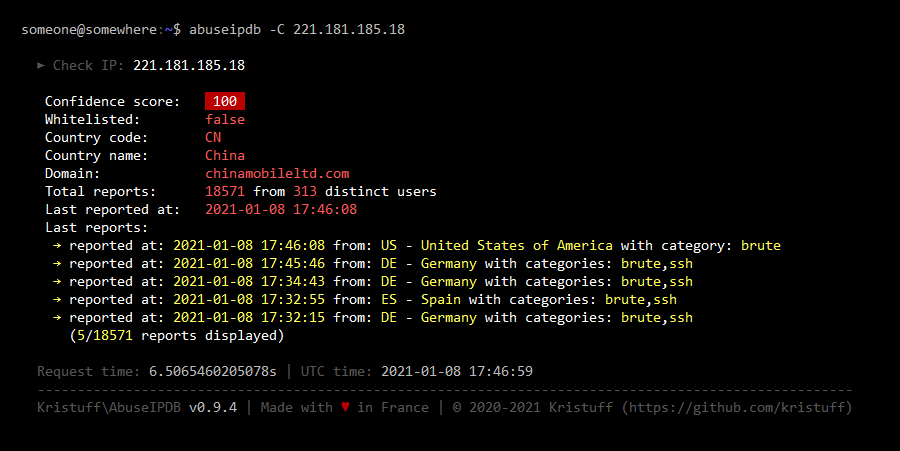
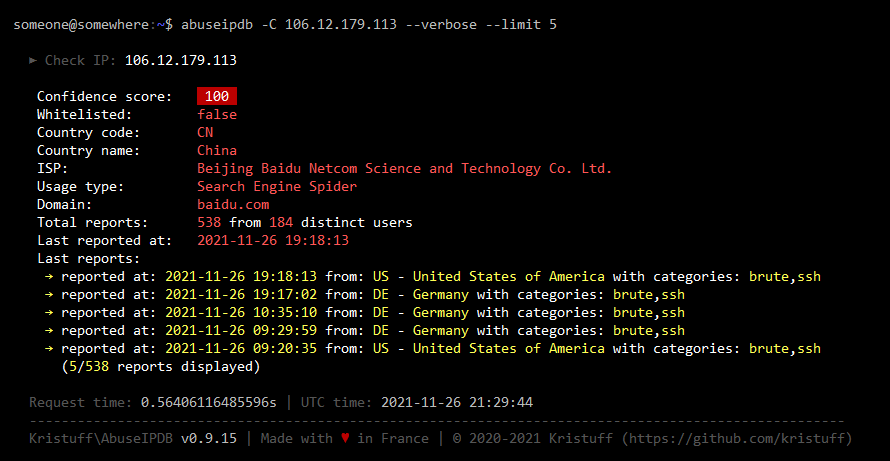
v0.9.16
**Changes**
- Update `composer.json` according to changes made in v0.9.15 (deploy this project as a dependency is no longer supported): update project type so *packagist.org* will propose `create-project` instead of `require`, and remove the *bin* part no longer required
- Fix php doc, typo, formatting
- Include `composer.json` and `composer.lock` in `.deb`

Changed region(s): [[0.0303, 0.1863, 0.9708, 0.9623], [0.0, 0.031, 0.6371, 0.1552]]

diff --git a/src/AbstractClient.php b/src/AbstractClient.php
@@ -13,7 +13,7 @@
  * For the full copyright and license information, please view the LICENSE
  * file that was distributed with this source code.
  *
- * @version    0.9.15
+ * @version    0.9.16
  * @copyright  2020-2021 Kristuff
  */
 namespace Kristuff\AbuseIPDB;
@@ -41,7 +41,7 @@ abstract class AbstractClient extends ShellErrorHandler
     /**
      * @var string
      */
-    const VERSION = 'v0.9.15'; 
+    const VERSION = 'v0.9.16'; 
 
     /**
      * @var QuietApiHandler
@@ -82,7 +82,7 @@ abstract class AbstractClient extends ShellErrorHandler
      * @static
      * @param array     $arguments   
      * 
-     * @return bool     true is the command has been found, otherwise false
+     * @return bool     true if the command has been found, otherwise false
      */
     protected static function parseCommand(array $arguments): bool
     {
@@ -111,14 +111,13 @@ abstract class AbstractClient extends ShellErrorHandler
      * @param array         $arguments      The list of arguments     
      * 
      * @return void   
-     * 
      */
     protected static function setOutputFormat(array $arguments): void
     {
         $given = self::getArgumentValue($arguments, 'o', 'output') ?? 'default';
         $output = empty($given) ? 'default' : $given; 
         self::validate(in_array($output, ['default', 'json', 'plaintext']), 'Invalid output argument given.');
-        self::$outputFormat = $output ;
+        self::$outputFormat = $output;
     }
 
     /**
@@ -128,8 +127,6 @@ abstract class AbstractClient extends ShellErrorHandler
      * @static
      * 
      * @return void
-     * @throws \InvalidArgumentException                        If the given file does not exist
-     * @throws \Kristuff\AbuseIPDB\InvalidPermissionException   If the given file is not readable 
      */
     protected static function createHandler(): void
     {
@@ -159,16 +156,16 @@ abstract class AbstractClient extends ShellErrorHandler
      * @access protected 
      * @static
      * @param array    $conf        The main configuration array
-     * @param array    $local       The local configuration array
+     * @param array    $localConf   The local configuration array
      * 
      * @return array
      */
     protected static function extractSelfIpsFromConf(array $conf, array $localConf): array
     {
-        if (array_key_exists('self_ips', $localConf)){
+        if (array_key_exists('self_ips', $localConf) && !empty($localConf['self_ips'])){
             return array_map('trim', explode(',', $localConf['self_ips']));
         }
-        if (array_key_exists('self_ips', $conf)){
+        if (array_key_exists('self_ips', $conf) && !empty($conf['self_ips'])){
             return array_map('trim', explode(',', $conf['self_ips']));
         }
         return [];
@@ -179,11 +176,13 @@ abstract class AbstractClient extends ShellErrorHandler
      * 
      * @access protected 
      * @static
-     * @param array    $conf        The configuration array
+     * @param array    $conf        The main configuration array
+     * @param array    $localConf   The local configuration array
      * 
-     * @return array
+     * @return string
+     * @throws \RuntimeException                                
      */
-    protected static function extractApiKeyFromConf(array $conf, $localConf): string
+    protected static function extractApiKeyFromConf(array $conf, array $localConf): string
     {
         $key = '';
 

diff --git a/src/AbuseIPDBClient.php b/src/AbuseIPDBClient.php
@@ -13,7 +13,7 @@
  * For the full copyright and license information, please view the LICENSE
  * file that was distributed with this source code.
  *
- * @version    0.9.15
+ * @version    0.9.16
  * @copyright  2020-2021 Kristuff
  */
 namespace Kristuff\AbuseIPDB;

diff --git a/src/BulkReportTrait.php b/src/BulkReportTrait.php
@@ -13,7 +13,7 @@
  * For the full copyright and license information, please view the LICENSE
  * file that was distributed with this source code.
  *
- * @version    0.9.15
+ * @version    0.9.16
  * @copyright  2020-2021 Kristuff
  */
 namespace Kristuff\AbuseIPDB;

diff --git a/src/CheckBlockTrait.php b/src/CheckBlockTrait.php
@@ -13,7 +13,7 @@
  * For the full copyright and license information, please view the LICENSE
  * file that was distributed with this source code.
  *
- * @version    0.9.15
+ * @version    0.9.16
  * @copyright  2020-2021 Kristuff
  */
 namespace Kristuff\AbuseIPDB;

diff --git a/src/CheckTrait.php b/src/CheckTrait.php
@@ -13,7 +13,7 @@
  * For the full copyright and license information, please view the LICENSE
  * file that was distributed with this source code.
  *
- * @version    0.9.15
+ * @version    0.9.16
  * @copyright  2020-2021 Kristuff
  */
 namespace Kristuff\AbuseIPDB;

diff --git a/src/ShellErrorHandler.php b/src/ShellErrorHandler.php
@@ -13,7 +13,7 @@
  * For the full copyright and license information, please view the LICENSE
  * file that was distributed with this source code.
  *
- * @version    0.9.15
+ * @version    0.9.16
  * @copyright  2020-2021 Kristuff
  */
 namespace Kristuff\AbuseIPDB;

diff --git a/src/ShellUtils.php b/src/ShellUtils.php
@@ -13,7 +13,7 @@
  * For the full copyright and license information, please view the LICENSE
  * file that was distributed with this source code.
  *
- * @version    0.9.15
+ * @version    0.9.16
  * @copyright  2020-2021 Kristuff
  */
 namespace Kristuff\AbuseIPDB;

diff --git a/src/UtilsTrait.php b/src/UtilsTrait.php
@@ -13,7 +13,7 @@
  * For the full copyright and license information, please view the LICENSE
  * file that was distributed with this source code.
  *
- * @version    0.9.15
+ * @version    0.9.16
  * @copyright  2020-2021 Kristuff
  */
 namespace Kristuff\AbuseIPDB;

diff --git a/README.md b/README.md
@@ -6,7 +6,7 @@
 [![Latest Stable Version](https://poser.pugx.org/kristuff/abuseipdb-cli/v/stable)](https://packagist.org/packages/kristuff/abuseipdb-cli)
 [![License](https://poser.pugx.org/kristuff/abuseipdb-cli/license)](https://packagist.org/packages/kristuff/abuseipdb-cli)
 
-[![sample-report](doc/sample-report.gif)](https://kristuff.fr/projects/abuseipdbcli)
+[![sample-report](doc/sample-check.gif)](https://kristuff.fr/projects/abuseipdbcli)
 
 Features
 --------
@@ -25,7 +25,7 @@ Requirements
 - PHP >= 7.1
 - PHP's cURL  
 - A valid [abuseipdb.com](https://abuseipdb.com) account with an API key
-- Composer for install
+- Composer for install (not required if you install the `.deb` package)
 
 Dependencies
 ------------
